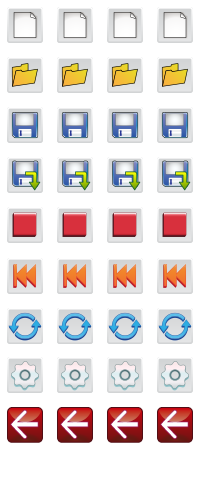
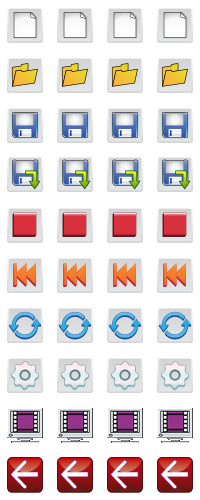
Added small buttons

diff --git a/public/src/js/app/views/controls/smallcontrolmenu.js b/public/src/js/app/views/controls/smallcontrolmenu.js
@@ -13,23 +13,23 @@ PlayingState, Events, ModelConsts){
 	
 	"use strict";
 	
-	var ControlMenu  = function(options){
+	var SmallControlMenu  = function(options){
 		options.buttonClass = ControlMenuButton;
-		options.numX = 6;
+		options.numX = 3;
 		options.numY = 1;
-		options.data = [{'num':4}, {'num':5}, {'num':6}, {'num':7}, {'num':8}, {'num':9}];
+		options.data = [{'num':4}, {'num':5}, {'num':6}];
 		PhaserComponents.Display.ButtonBar.call(this, options);
 		this.modelFacade.get(ModelConsts.PLAYING).changeSignal.add(this.playingChanged, this);
 		this.clickSignal.add(this.menuClick, this);
 		this.disableButtonAt(1);
 	};
 	
-	ControlMenu.WIDTH = 252;
-	ControlMenu.HEIGHT = 50;
+	SmallControlMenu.WIDTH = 140;
+	SmallControlMenu.HEIGHT = 50;
 
-	PhaserComponents.Utils.extends(ControlMenu, PhaserComponents.Display.ButtonBar);
+	PhaserComponents.Utils.extends(SmallControlMenu, PhaserComponents.Display.ButtonBar);
 
-	ControlMenu.prototype.menuClick = function(data) {
+	SmallControlMenu.prototype.menuClick = function(data) {
 		var index = data.index;
 		if(index === 0){
 			this.eventDispatcher.trigger({"type":Events.STOP});
@@ -40,41 +40,28 @@ PlayingState, Events, ModelConsts){
 		else if(index === 2){
 			this.eventDispatcher.trigger({"type":Events.UNDO});
 		}
-		else if(index === 3){
-			this.eventDispatcher.trigger({"type":Events.GRID_CHOICE});
-		}
-		else if(index === 4){
-			this.eventDispatcher.trigger({"type":Events.VIDEO});
-		}
-		else if(index === 5){
-			this.eventDispatcher.trigger({"type":Events.BACK});
-		} 
 	};
 
-	ControlMenu.prototype.playingChanged = function(value){
+	SmallControlMenu.prototype.playingChanged = function(value){
 		if(value === PlayingState.NOT_PLAYING){
 			this.disableButtonAt(0);
 			this.enableButtonAt(1);
 			this.enableButtonAt(2);
-			this.enableButtonAt(3);
-			this.enableButtonAt(4);
 		}
 		else{
 			this.enableButtonAt(0);
 			this.enableButtonAt(1);
 			this.disableButtonAt(2);
-			this.disableButtonAt(3);
-			this.disableButtonAt(4);
 		}
 	};
 
-	ControlMenu.prototype.destroy = function(){
+	SmallControlMenu.prototype.destroy = function(){
 		this.clickSignal.remove(this.menuClick, this);
 		this.modelFacade.get(ModelConsts.PLAYING).changeSignal.remove(this.playingChanged, this);
 		PhaserComponents.Display.ButtonBar.prototype.destroy.call(this);
 	};
 
-	return ControlMenu;
+	return SmallControlMenu;
 
 });
 	

diff --git a/public/src/js/app/views/controls/controlskeys.js b/public/src/js/app/views/controls/controlskeys.js
@@ -7,7 +7,9 @@ define(['phasercomponents', 'app/views/commandpanels/abstractcommandspanel',
 
 'app/views/commandpanels/commandspanelfactory', 'app/views/buttons/controlbarbutton',
 
-'app/events/events', 'app/models/modelconsts', 'app/views/components/controlbar'
+'app/events/events', 'app/models/modelconsts', 'app/views/components/controlbar', 
+
+'app/views/controls/smallcontrolmenu'
 
 ],
 
@@ -19,7 +21,9 @@ ShowDirections,
 
 CommandsPanelFactory, ControlBarButton,
 
-Events, ModelConsts, ControlBar){
+Events, ModelConsts, ControlBar,
+
+SmallControlMenu){
 	
 	"use strict";
 	
@@ -41,6 +45,7 @@ Events, ModelConsts, ControlBar){
 		PhaserComponents.Display.Container.prototype.create.call(this);
 		this.addControlBar();
 		this.addCommandsPanel();
+		this.addSmallMenu();
 	};
 
 	ControlsKeys.prototype.onProgAllowedChanged = function(value) {
@@ -49,6 +54,14 @@ Events, ModelConsts, ControlBar){
 		}
 	};
 
+	ControlsKeys.prototype.positionSmallMenu = function() {
+		var x, y;
+		x = (this.bounds.w - ControlBar.WIDTH)/2;
+		y = this.game.h - ControlsLayout.PEN_HEIGHT - 87;
+		this.smallMenu.view.x = x;
+		this.smallMenu.view.y = y;
+	};
+	
 	ControlsKeys.prototype.positionPanel = function() {
 		var x, y;
 		if(this.commandsPanel){
@@ -104,6 +117,14 @@ Events, ModelConsts, ControlBar){
 		if(this.controlBar){
 			this.controlBar.enableInput();
 		}
+	};
+
+	ControlsKeys.prototype.addSmallMenu = function(){
+		var bounds = {'x':0, 'y':0, 'w':SmallControlMenu.WIDTH, 'h':SmallControlMenu.HEIGHT};
+		this.smallMenu = new SmallControlMenu({"bounds":bounds});
+		this.group.add(this.smallMenu.view);
+		this.positionSmallMenu();
+		this.showManager.add(this.smallMenu.view, 2, ShowDirections.UP);
 	};
 
 	ControlsKeys.prototype.addControlBar = function() {

diff --git a/public/src/js/app/appcontext.js b/public/src/js/app/appcontext.js
@@ -3,7 +3,7 @@ define(['app/commands/newfilecommand', 'app/commands/loadcommand', 'app/commands
 
 	'app/commands/printcommand', 'app/commands/undocommand', 'app/commands/downloadcommand',
 
-	'app/commands/rewindcommand', 'app/commands/stopcommand',
+	'app/commands/rewindcommand', 'app/commands/stopcommand', 'app/commands/videocommand',
 
 	'app/commands/gridchoicecommand', 'app/commands/checkoutsidecommand',
 
@@ -33,7 +33,7 @@ define(['app/commands/newfilecommand', 'app/commands/loadcommand', 'app/commands
 
 		PrintCommand, UndoCommand, DownloadCommand,
 
-		RewindCommand, StopCommand,
+		RewindCommand, StopCommand, VideoCommand,
 
 		GridChoiceCommand, CheckOutsideCommand,
 
@@ -153,6 +153,7 @@ define(['app/commands/newfilecommand', 'app/commands/loadcommand', 'app/commands
 		this.commandMap.map(Events.CHECK_POSITION, 								CheckChallengeCommand);
 		this.commandMap.map(Events.CHECK_POSITION, 								CheckOutsideCommand);
 		this.commandMap.map(Events.BACK, 										BackCommand);
+		this.commandMap.map(Events.VIDEO, 										VideoCommand);
 		this.commandMap.map(Events.REPLAY, 										ReplayCommand);
 		this.commandMap.map(Events.DOWNLOAD, 									DownloadCommand);
 		this.commandMap.map(Events.FINISHED, 									FinishCommand);

diff --git a/public/src/js/app/commands/videocommand.js b/public/src/js/app/commands/videocommand.js
@@ -1,0 +1,18 @@
+define(['phasercomponents', 'app/events/events'],
+
+function(PhaserComponents, Events) {
+	
+	"use strict";
+	
+	var VideoCommand = function(){
+		PhaserComponents.Commands.AbstractCommand.call(this);
+	};
+	
+	PhaserComponents.Utils.extends(VideoCommand, PhaserComponents.Commands.AbstractCommand);
+
+	VideoCommand.prototype.execute = function(){
+		alert("videos");
+	};
+	
+  	return VideoCommand;
+});

diff --git a/public/src/js/app/events/events.js b/public/src/js/app/events/events.js
@@ -21,6 +21,7 @@ function() {
 	Events.ADD_COMMAND			= 		"addCommand";
 	Events.SHOW_ALL				=		"showAll";
 	Events.DRAW					= 		"draw";
+	Events.VIDEO				= 		"video";
 	Events.REPLAY				= 		"replay";
 	Events.IMG_CAPTURED			= 		"imgCaptured";
 	Events.OPEN_BG_EDITOR		= 		"openBgEditor";
